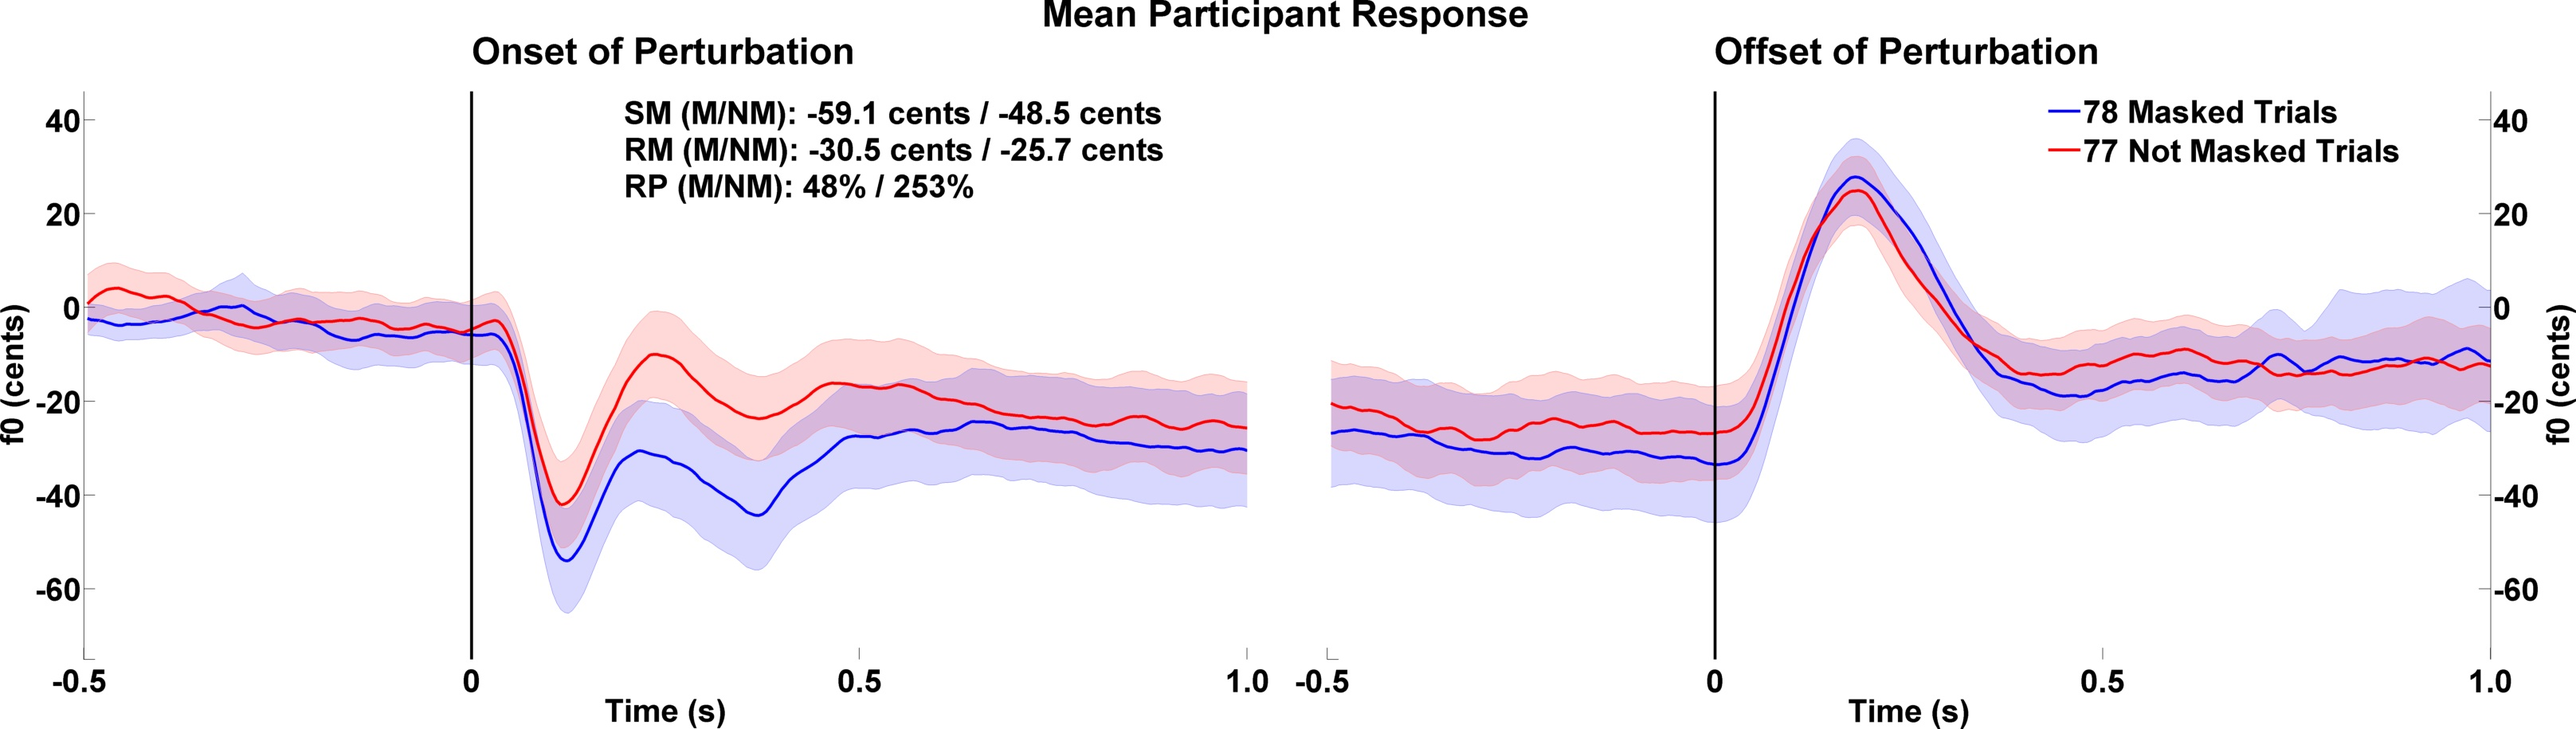
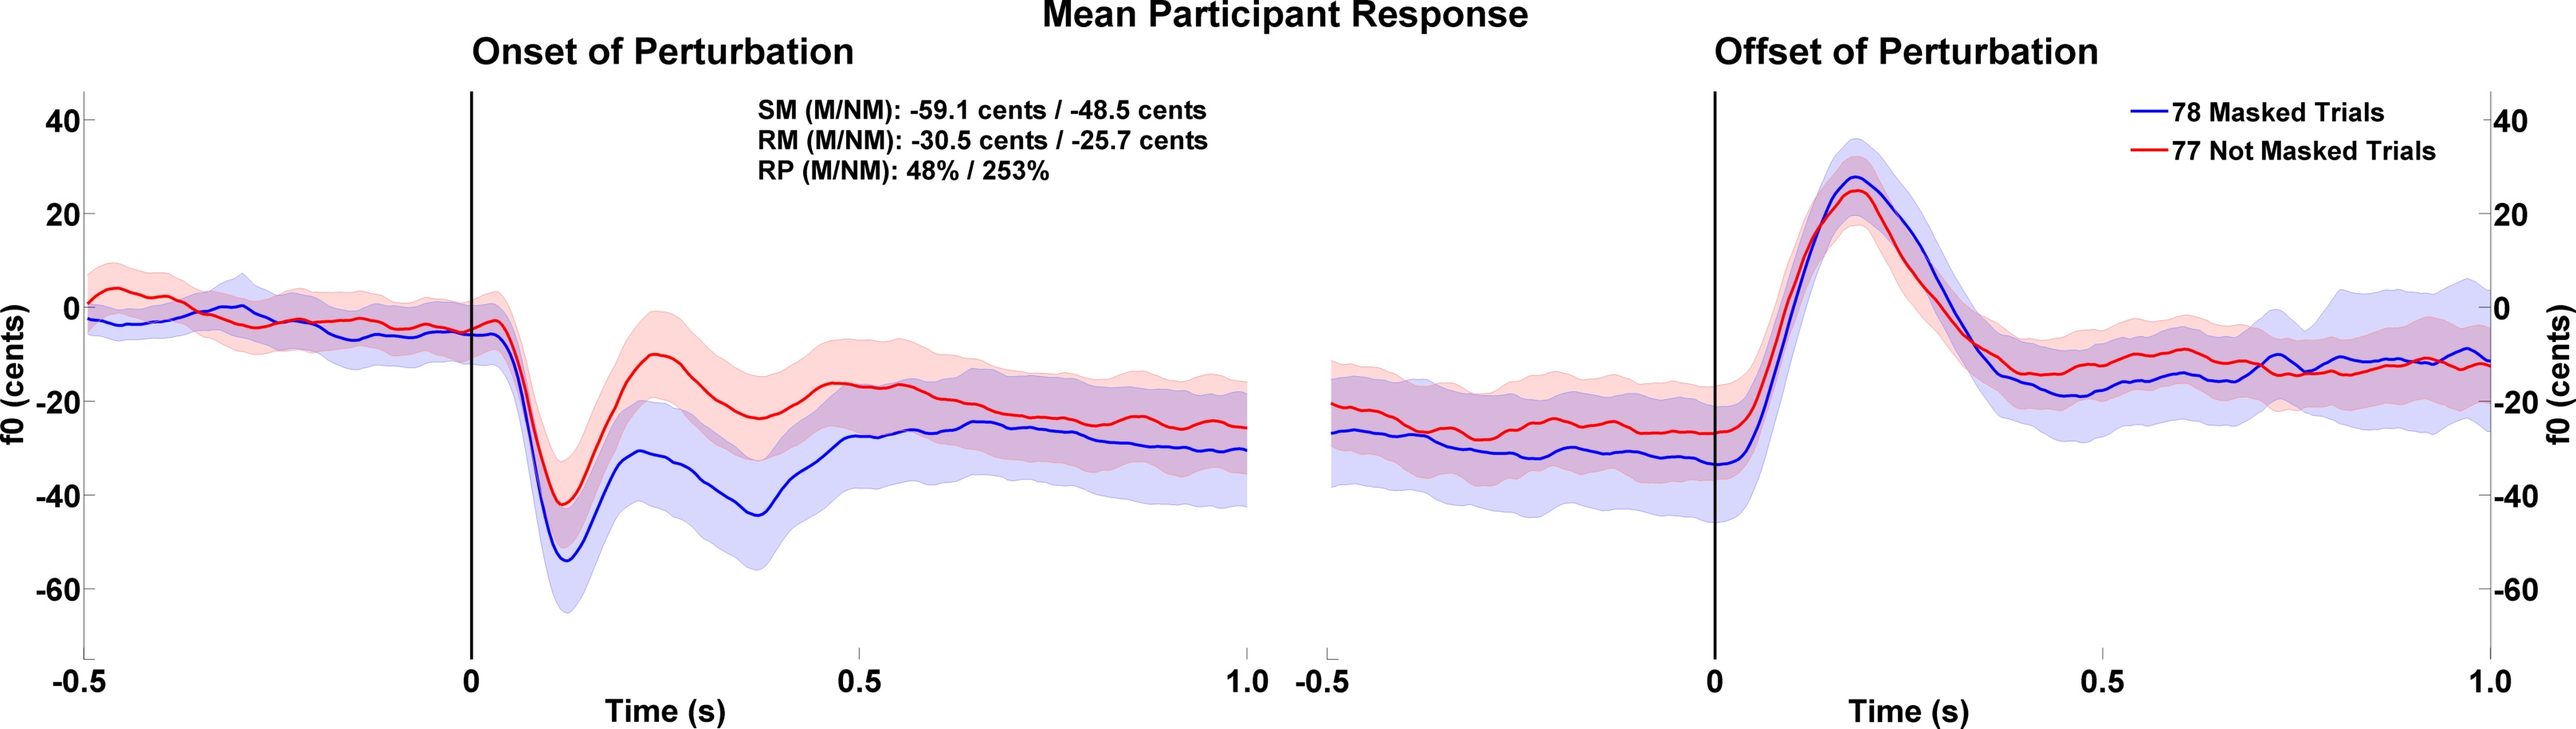
futzing with sizes. Things are looking good

Changed region(s): [[0.2187, 0.1224, 0.4686, 0.2754], [0.781, 0.1224, 0.9685, 0.2448]]

diff --git a/Analysis/drawMaskvVoiceMeanf0.m b/Analysis/drawMaskvVoiceMeanf0.m
@@ -42,46 +42,57 @@ dottedy      = [-500 500];
 maskColor    = 'b';
 voicColor    = 'r';
 fontN        = 'Arial';
-titleFSize   = 20;
-axisLSize    = 20;
-
+legAnnoFSize = 25;
+titleFSize   = 35;
+axisLSize    = 30;
+lineThick    = 4;
 
 ha = tight_subplot(1,2,[0.1 0.05],[0.12 0.15],[0.05 0.05]);
 
 %Onset of Perturbation
 axes(ha(1))
-shadedErrorBar(time, meanf0PertOnsetM, CIf0PertOnsetM, maskColor, 1); %Masked
+nM = shadedErrorBar(time, meanf0PertOnsetM, CIf0PertOnsetM, maskColor, 1); %Masked
 hold on
-shadedErrorBar(time, meanf0PertOnsetV, CIf0PertOnsetV, voicColor, 1); %Voice
+nV = shadedErrorBar(time, meanf0PertOnsetV, CIf0PertOnsetV, voicColor, 1); %Voice
 hold on
-plot(dottedStartx, dottedy,'k','LineWidth',4)
-xlabel('Time (s)', 'FontSize', 18, 'FontWeight', 'bold'); ylabel('f0 (cents)', 'FontSize', 18, 'FontWeight', 'bold')
-title('Onset of Perturbation', 'FontSize', 18, 'FontWeight', 'bold')
+plot(dottedStartx, dottedy,'k','LineWidth',lineThick)
+
+set(nM.mainLine, 'LineWidth', lineThick)
+set(nV.mainLine, 'LineWidth', lineThick)
+xlabel('Time (s)',   'FontName', fontN, 'FontSize', axisLSize, 'FontWeight', 'bold'); 
+ylabel('f0 (cents)', 'FontName', fontN, 'FontSize', axisLSize, 'FontWeight', 'bold')
+title('Onset of Perturbation', 'FontName', fontN, 'FontSize', titleFSize, 'FontWeight', 'bold')
 axis(limits); box off
 
 set(gca,'XTickLabel',{'-0.5' '0' '0.5' '1.0'},...
-        'FontSize', 16,...
+        'FontName', fontN,...
+        'FontSize', axisLSize,...
         'FontWeight','bold')
 
 %Offset of Perturbation
 axes(ha(2))
-uH = shadedErrorBar(time, meanf0PertOffsetM, CIf0PertOffsetM, maskColor, 1); %Masked
+fM = shadedErrorBar(time, meanf0PertOffsetM, CIf0PertOffsetM, maskColor, 1); %Masked
 hold on
-pH = shadedErrorBar(time, meanf0PertOffsetV, CIf0PertOffsetV, voicColor, 1); %Voice
+fV = shadedErrorBar(time, meanf0PertOffsetV, CIf0PertOffsetV, voicColor, 1); %Voice
 hold on
-plot(dottedStartx, dottedy,'k','LineWidth',4)
-xlabel('Time (s)', 'FontSize', 18, 'FontWeight', 'bold'); ylabel('f0 (cents)', 'FontSize', 18, 'FontWeight', 'bold')
-title('Offset of Perturbation', 'FontSize', 18, 'FontWeight', 'bold')
+plot(dottedStartx, dottedy,'k','LineWidth',lineThick)
+
+set(fM.mainLine, 'LineWidth', lineThick)
+set(fV.mainLine, 'LineWidth', lineThick)
+xlabel('Time (s)',   'FontName', fontN, 'FontSize', axisLSize, 'FontWeight', 'bold'); 
+ylabel('f0 (cents)', 'FontName', fontN, 'FontSize', axisLSize, 'FontWeight', 'bold')
+title('Onset of Perturbation', 'FontName', fontN, 'FontSize', titleFSize, 'FontWeight', 'bold')
 axis(limits); box off
 
 set(gca,'XTickLabel', {'-0.5' '0' '0.5' '1.0'},...
-        'FontSize', 16,...
+        'FontName', fontN,...
+        'FontSize', axisLSize,...
         'FontWeight','bold',...
         'YAxisLocation', 'right');
 
 sup = suptitle(curSess);
-set(sup, 'FontSize', 20,...
-         'FontName', fontN,...
+set(sup, 'FontName', fontN,...
+         'FontSize', titleFSize,...
          'FontWeight','bold')
 
 % Done plotting, now to add some annotations
@@ -93,30 +104,29 @@ annoStim = checkSig(statSP, pValueThresh, annoStim);
 annoResp = checkSig(statRP, pValueThresh, annoResp);
 annoPerc = checkSig(statPP, pValueThresh, annoPerc);
  
-statBox = annotation('textbox',[.25 .75 0.45 0.1],...
+statBox = annotation('textbox',[.30 .75 0.45 0.1],...
                      'string', {annoStim;
                                 annoResp
                                 annoPerc},...
                      'LineStyle','none',...
-                     'FontWeight','bold',...
-                     'FontSize',12,...
-                     'FontName', fontN);
+                     'FontName', fontN,...
+                     'FontSize', legAnnoFSize,...
+                     'FontWeight','bold');
             
 figureMark = annotation('textbox', [0.01 0.88 0.05 0.1],...
                         'string', figureL,...
                         'LineStyle', 'none',...
-                        'FontWeight', 'bold',...
-                        'FontSize',25,...
-                        'FontName', fontN);
+                        'FontName', fontN,...
+                        'FontSize', titleFSize,...
+                        'FontWeight','bold');
 
-legend([uH.mainLine pH.mainLine],{[num2str(numMasked) ' Masked Trials'], [num2str(numVoiced) ' Not Masked Trials']},...
+legend([fM.mainLine fV.mainLine],{[num2str(numMasked) ' Masked Trials'], [num2str(numVoiced) ' Not Masked Trials']},...
+            'Position', [0.83 0.75 0.1 0.1],...
             'Box', 'off',...
             'Edgecolor', [1 1 1],...
-            'FontSize', 14,...
-            'FontWeight', 'bold',...
-            'Position', [0.80 0.75 0.1 0.1]);
-
-
+            'FontName', fontN,...
+            'FontSize', legAnnoFSize,...
+            'FontWeight', 'bold');
         
 plots = {'Figure'};
 for i = 1:length(plots)

diff --git a/Analysis/drawMeanSubjf0Resp.m b/Analysis/drawMeanSubjf0Resp.m
@@ -38,10 +38,10 @@ set(MeanSubjf0Resp, 'Position',[plotpos plotdim],'PaperPositionMode','auto')
 
 dottedStartx = [0 0];
 dottedy      = [-500 500];
-maskColor    = [0 0 1];
-voicColor    = [1 0 0];
+maskColor    = 'b';
+voicColor    = 'r';
 fontN        = 'Arial';
-legAnnoFSize = 30;
+legAnnoFSize = 25;
 titleFSize   = 35;
 axisLSize    = 30;
 lineThick    = 4;
@@ -103,7 +103,7 @@ annoStim = checkSig(statSP, pValueThresh, annoStim);
 annoResp = checkSig(statRP, pValueThresh, annoResp);
 annoPerc = checkSig(statPP, pValueThresh, annoPerc);
  
-statBox = annotation('textbox',[.25 .75 0.45 0.1],...
+statBox = annotation('textbox',[.30 .75 0.45 0.1],...
                      'string', {annoStim;
                                 annoResp
                                 annoPerc},...
@@ -113,7 +113,7 @@ statBox = annotation('textbox',[.25 .75 0.45 0.1],...
                       'FontWeight','bold');
 
 legend([fM.mainLine fV.mainLine],{[num2str(numMasked) ' Masked Trials'], [num2str(numVoiced) ' Not Masked Trials']},...
-            'Position', [0.80 0.75 0.1 0.1],...
+            'Position', [0.83 0.75 0.1 0.1],...
             'Box', 'off',...
             'Edgecolor', [1 1 1],...
             'FontName', fontN,...

diff --git a/Analysis/dfPooledPlotting.m b/Analysis/dfPooledPlotting.m
@@ -9,7 +9,7 @@ PolPlt.analyses = 'SfN2017';
 %Plot Toggles. This could eventually become an input variable
 sv2File                     = 1;
 PolPlt.NIDAQ_MeanTrialMicf0 = 0;
-PolPlt.MaskVVoice           = 0;
+PolPlt.MaskVVoice           = 1;
 PolPlt.AllSubjMaskvVoice    = 1;
 PolPlt.dataTable            = 0;
 
